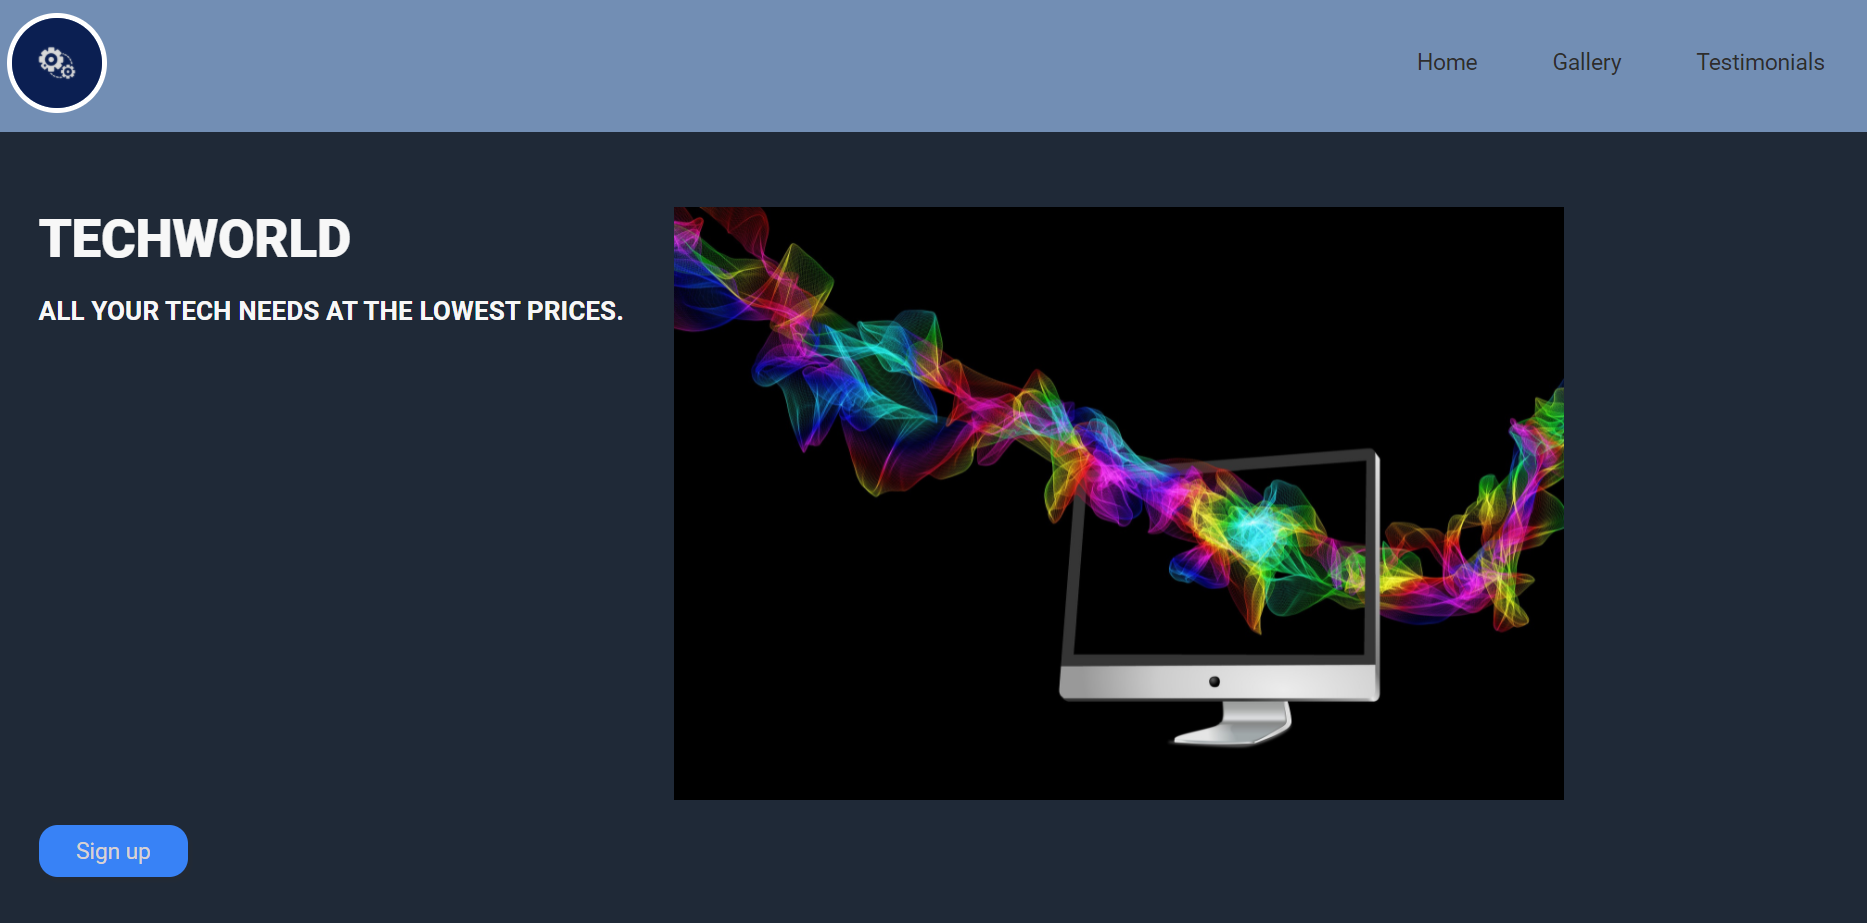
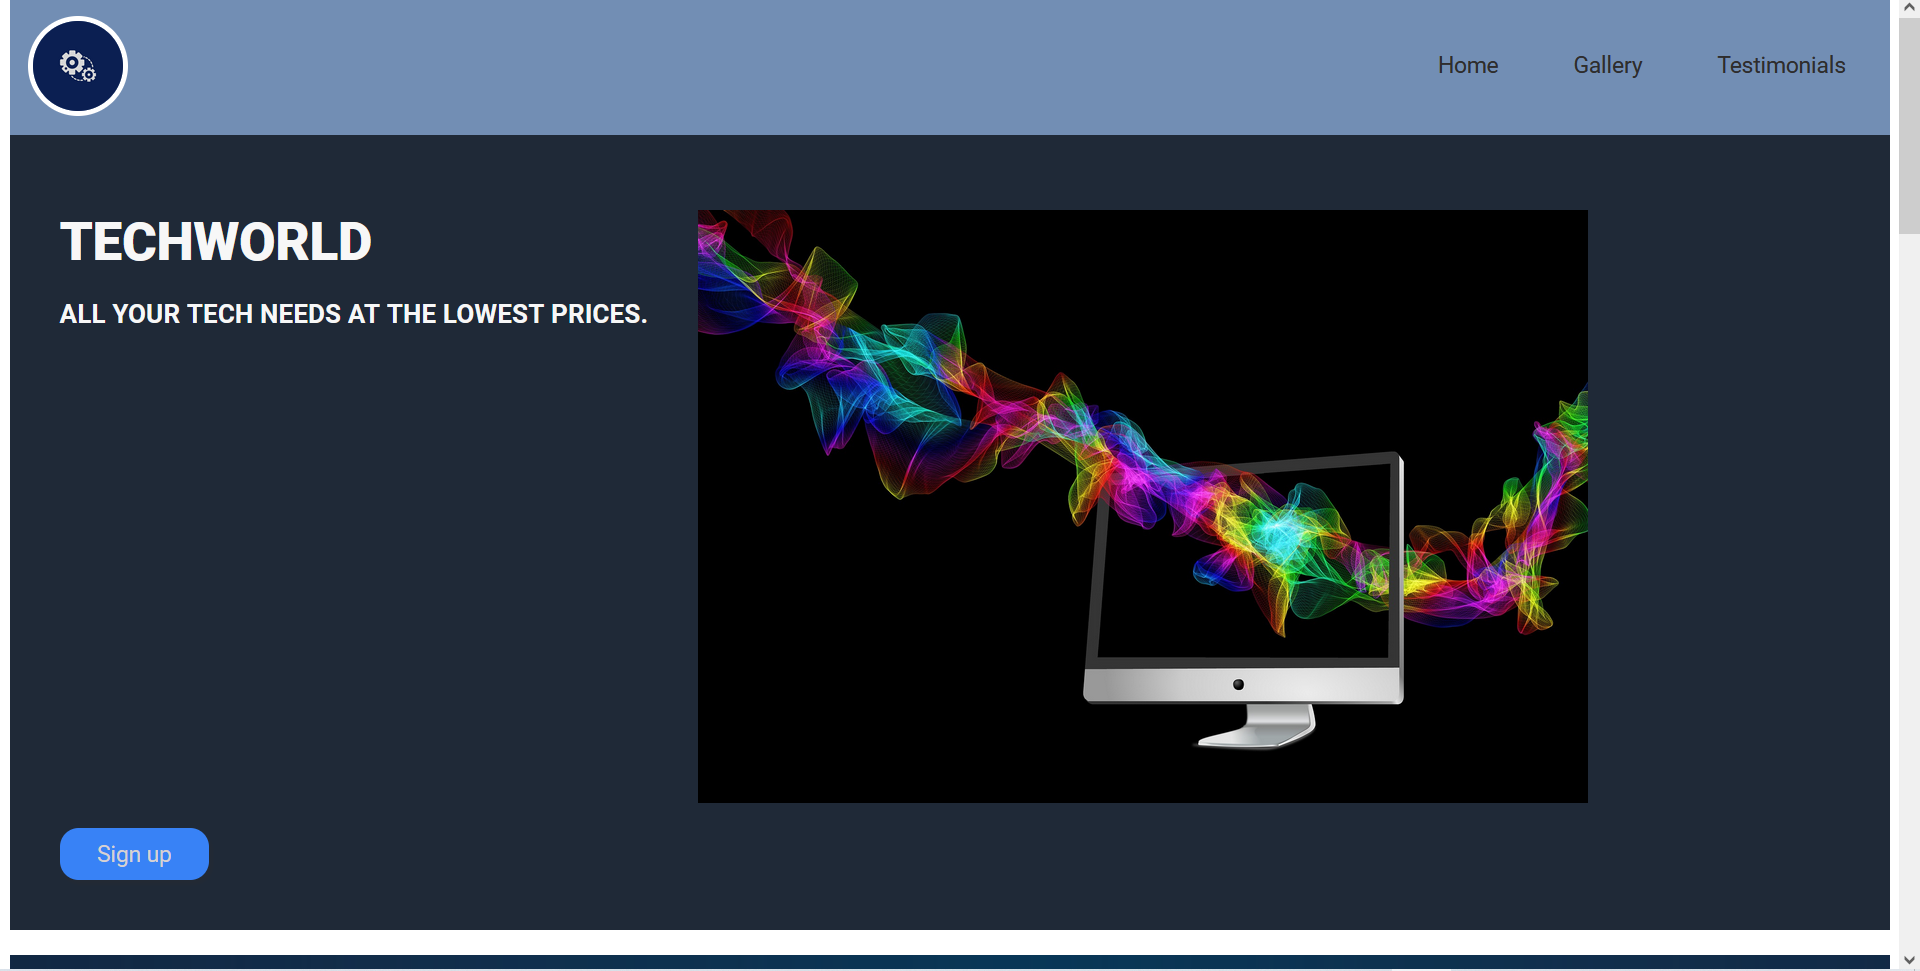
styling

Changed region(s): [[0.0, 0.0, 1.0, 1.0], [0.7456, 0.0607, 0.8698, 0.091]]

diff --git a/css/style.css b/css/style.css
@@ -8,36 +8,161 @@ html{
     margin:0;
     box-sizing: border-box;
 }
-
+/* universal element styling */
 img{
     display:block;
+ 
     max-width: 100%;;
 }
 
 section{
-    margin-top:20px;
+    padding:2em 0;
+    border-bottom:6px solid #75dd75;
 }
+
+h2{
+    text-align: center;
+    font-size: 8vw;
+    text-transform: uppercase;
+    margin-bottom: 20px;
+}
+
+/* universal styling ends here */
+
+
+
+
+/* navbar styling */
+
 
 #navbar{
+  
     position:fixed;
     top:0;
-    /* left:0; */
+    left:0;
     width:100%;
-     /* overflow: hidden; */
-
     display:flex;
     justify-content: flex-end;
+    align-items: center;
+    flex-wrap: wrap;
     gap:30px;
     padding:20px;
-    background-color: aqua;
+    background-color: #797979;
 }
 
+.nav-link{
+    text-decoration: none;
+text-transform: uppercase;
+font-size: 2.5em;
+color:#e7f1f1;
+}
+
+@keyframes bounce {
+    0%{transform: scale(1);
+
+}
+
+50%{
+    transform: scale(1.1);
+}
+
+100%{
+    transform: scale(1);
+}
+    
+}
+
+.nav-link:hover{
+    color:#94fdfd;
+    text-decoration: underline;
+    animation-name:bounce;
+    animation-duration: 950ms;
+    animation-iteration-count: infinite;
+    
+}
+
+/* nav styling ends here */
+
+
+/* welcome styling */
 
 #welcome-section{
+   
     height:100vh;
+    display: flex;
+    flex-direction: column;
+    justify-content: center;
+    align-items: center;
+    background-image: url(https://www.toptal.com/designers/subtlepatterns/food/), linear-gradient(rgb(22, 22, 66,.95),rgb(16, 11, 48,.95));
+    background-blend-mode: multiply;
 }
 
-#main{
+h1{
+    font-size: 12vw;
+    color:#eeeded;
+    font-weight: 700;
+    text-transform: uppercase;
+}
 
-margin-top:30px;    
+.subtitle{
+    margin-top:1em;
+    font-family: 'Dancing Script', cursive;
+    font-size: 8vw;
+    color:#eeeded;
+    font-weight: 500;
+}
+
+/* welcome-section styling ends here */
+
+/* projects section styling starts here  */
+
+#projects{
+    background-color: grey;
+    
+}
+
+#projects>h3{
+
+}
+
+.project-container{
+    padding:2em;
+    display:grid;
+    grid-template-columns: 1fr ;
+    grid-gap: 20px;
+}
+
+.project-tile{
+    padding:1em;
+    background: honeydew;
+    text-align:center;
+}
+
+@keyframes subtle-bounce {
+    0%{transform: scale(1);
+
+}
+
+50%{
+    transform: scale(1.02);
+}
+
+100%{
+    transform: scale(1);
+}
+    
+}
+
+.project-tile:hover{
+    transform: skewX(2deg);
+animation-name: subtle-bounce;
+animation-duration: 1s;
+animation-iteration-count: infinite;
+}
+
+
+.project-tile>p{
+    margin-top:5px;
+
+    font-size: 1.6em;
 }

diff --git a/index.html b/index.html
@@ -26,7 +26,8 @@
                             <a href="#contact-section" class="nav-link">Contact</a>
                         </nav>
             <section id="welcome-section">
-                <h1>Hi I'm Brandon, a web developer.</h1>
+                <h1>Hi I'm Brandon!</h1>
+                <p class="subtitle">Welcome to my portfolio page.</p>
             </section>
                     </header>
             <main id="main">
@@ -55,7 +56,7 @@
                                 </div>
                                 <div class="project-tile">
                                     <a
-                                        href="https://codepen.io/bgowera/details/jOLxjjx"
+                                        href="https://codepen.io/bgowera/pen/QWqyKPe"
                                         target="_blank"
                                         class="project-link"
                                     >
@@ -91,7 +92,7 @@
                                 </div>
                                 <div class="project-tile">
                                     <a
-                                        href="https://codepen.io/bgowera/details/jOLxjjx"
+                                        href="https://bgowera.github.io/odin-recipes/"
                                         target="_blank"
                                         class="project-link"
                                     >
